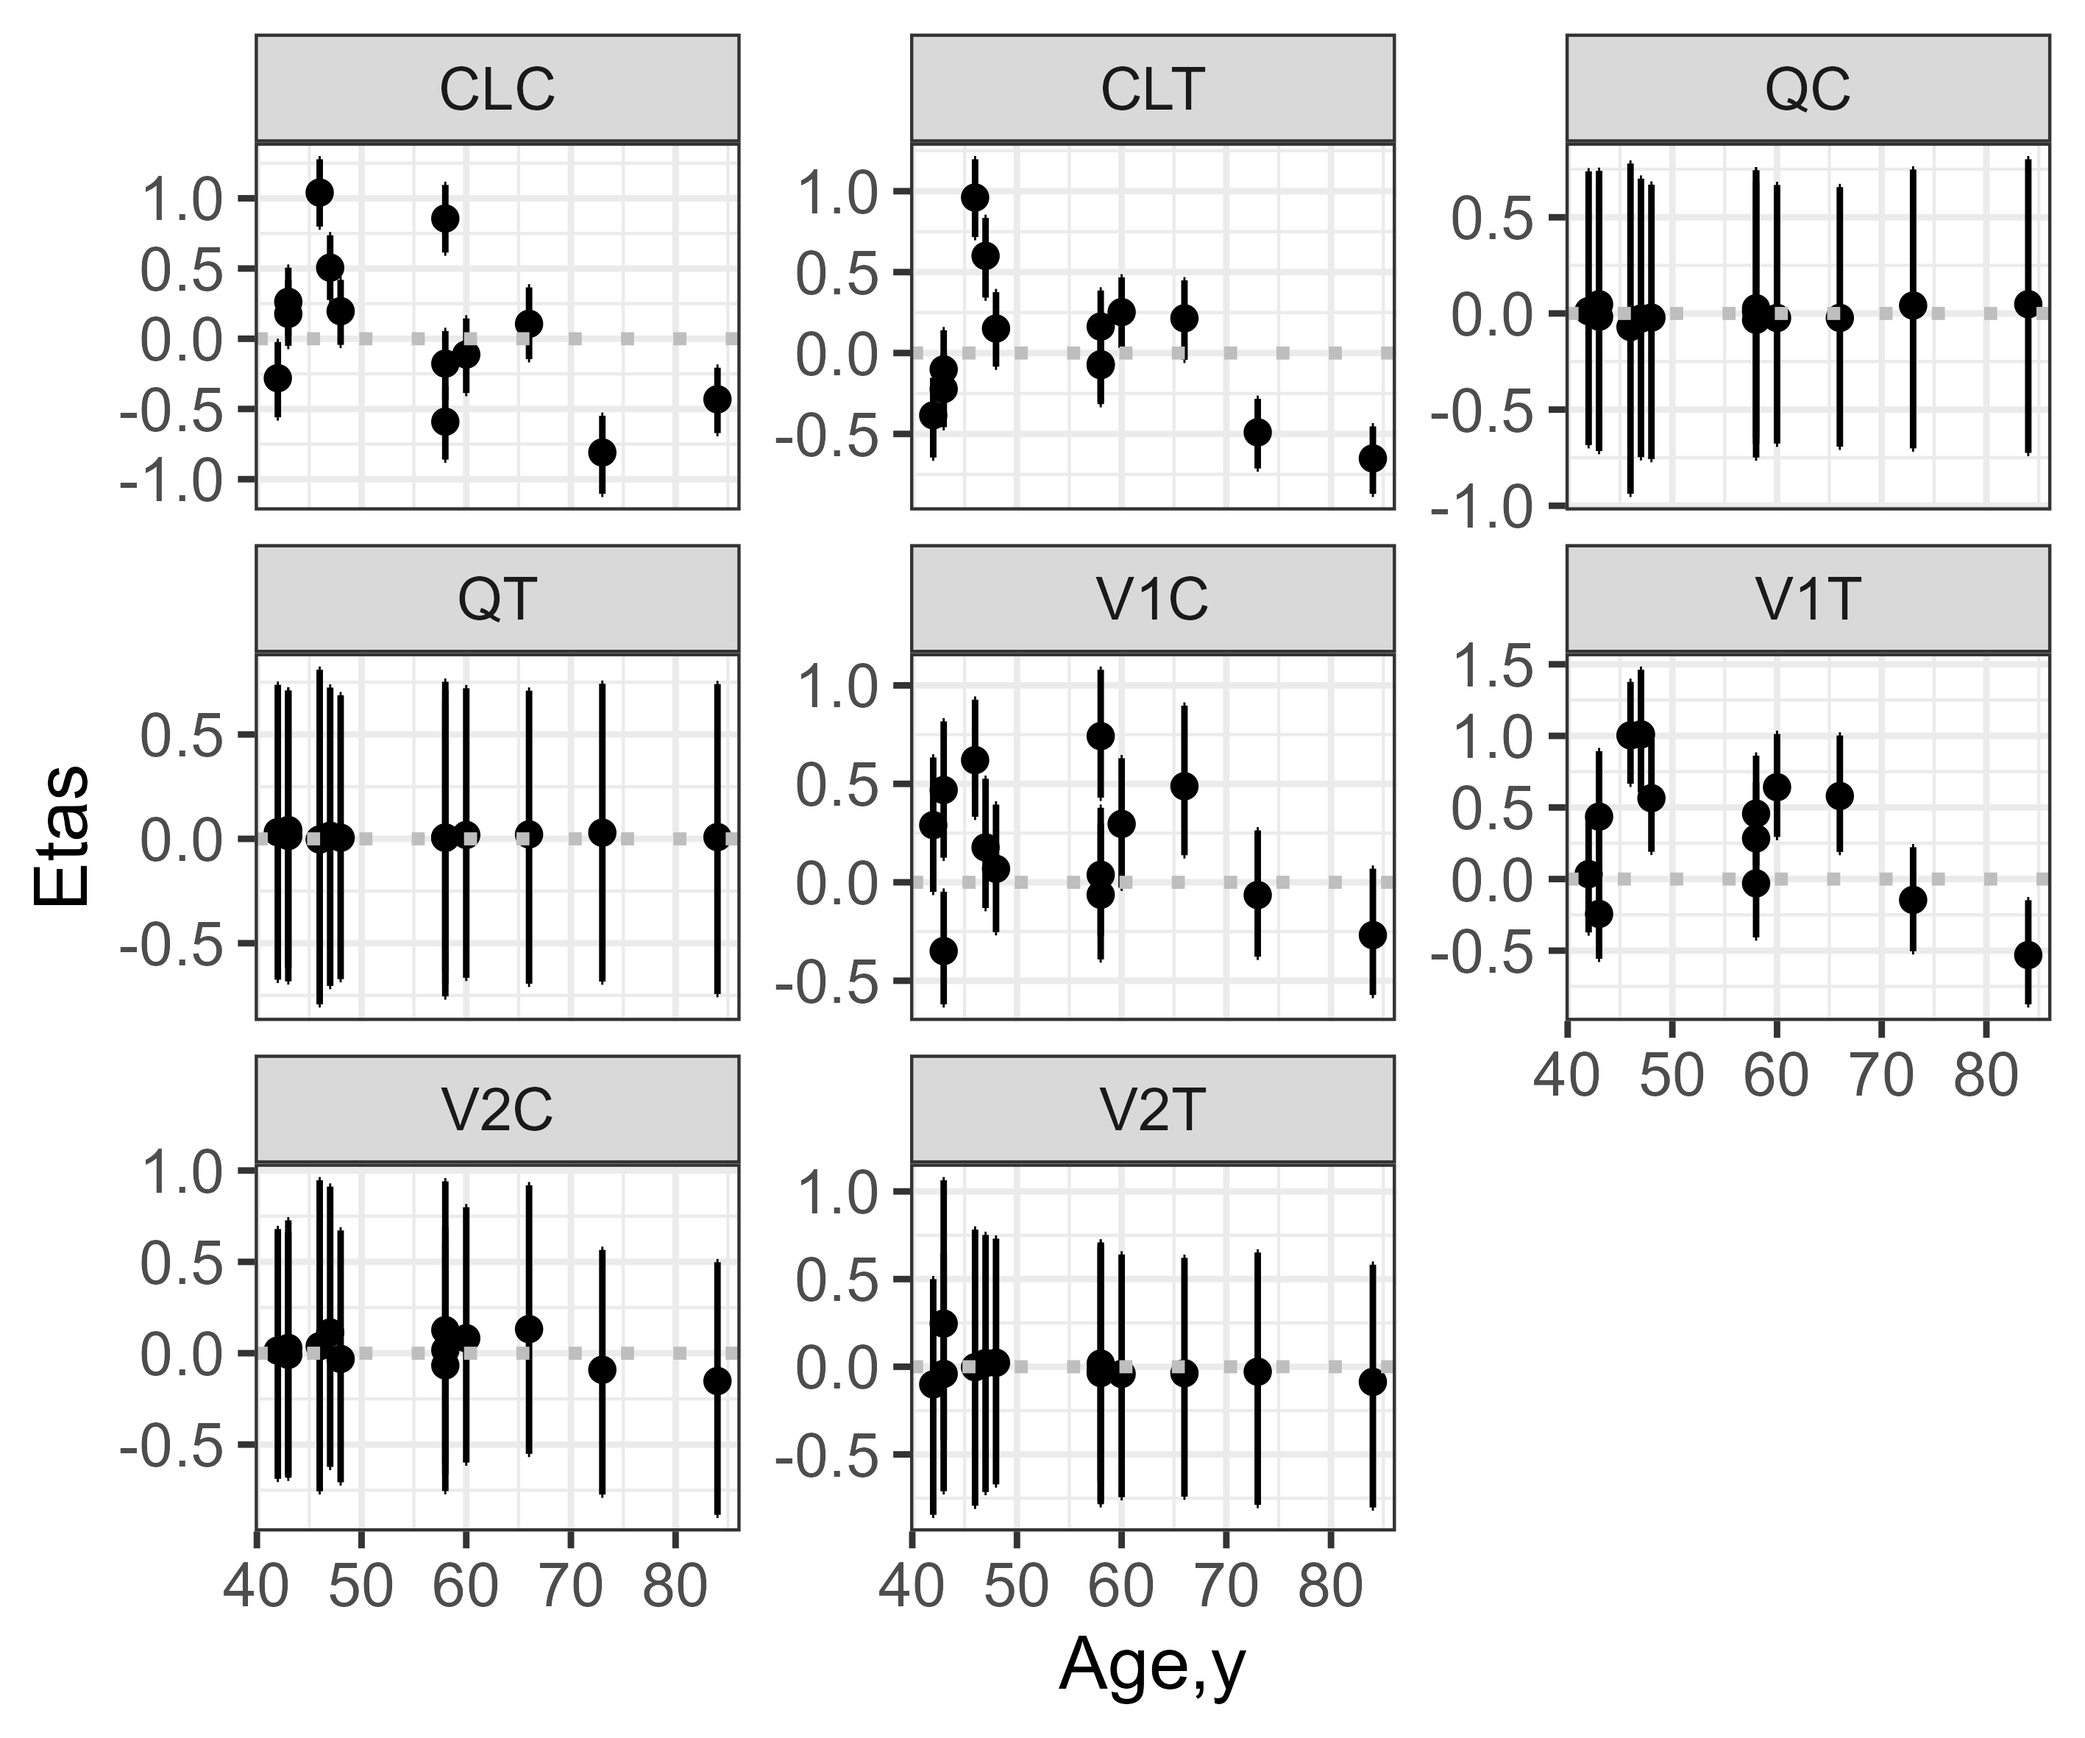
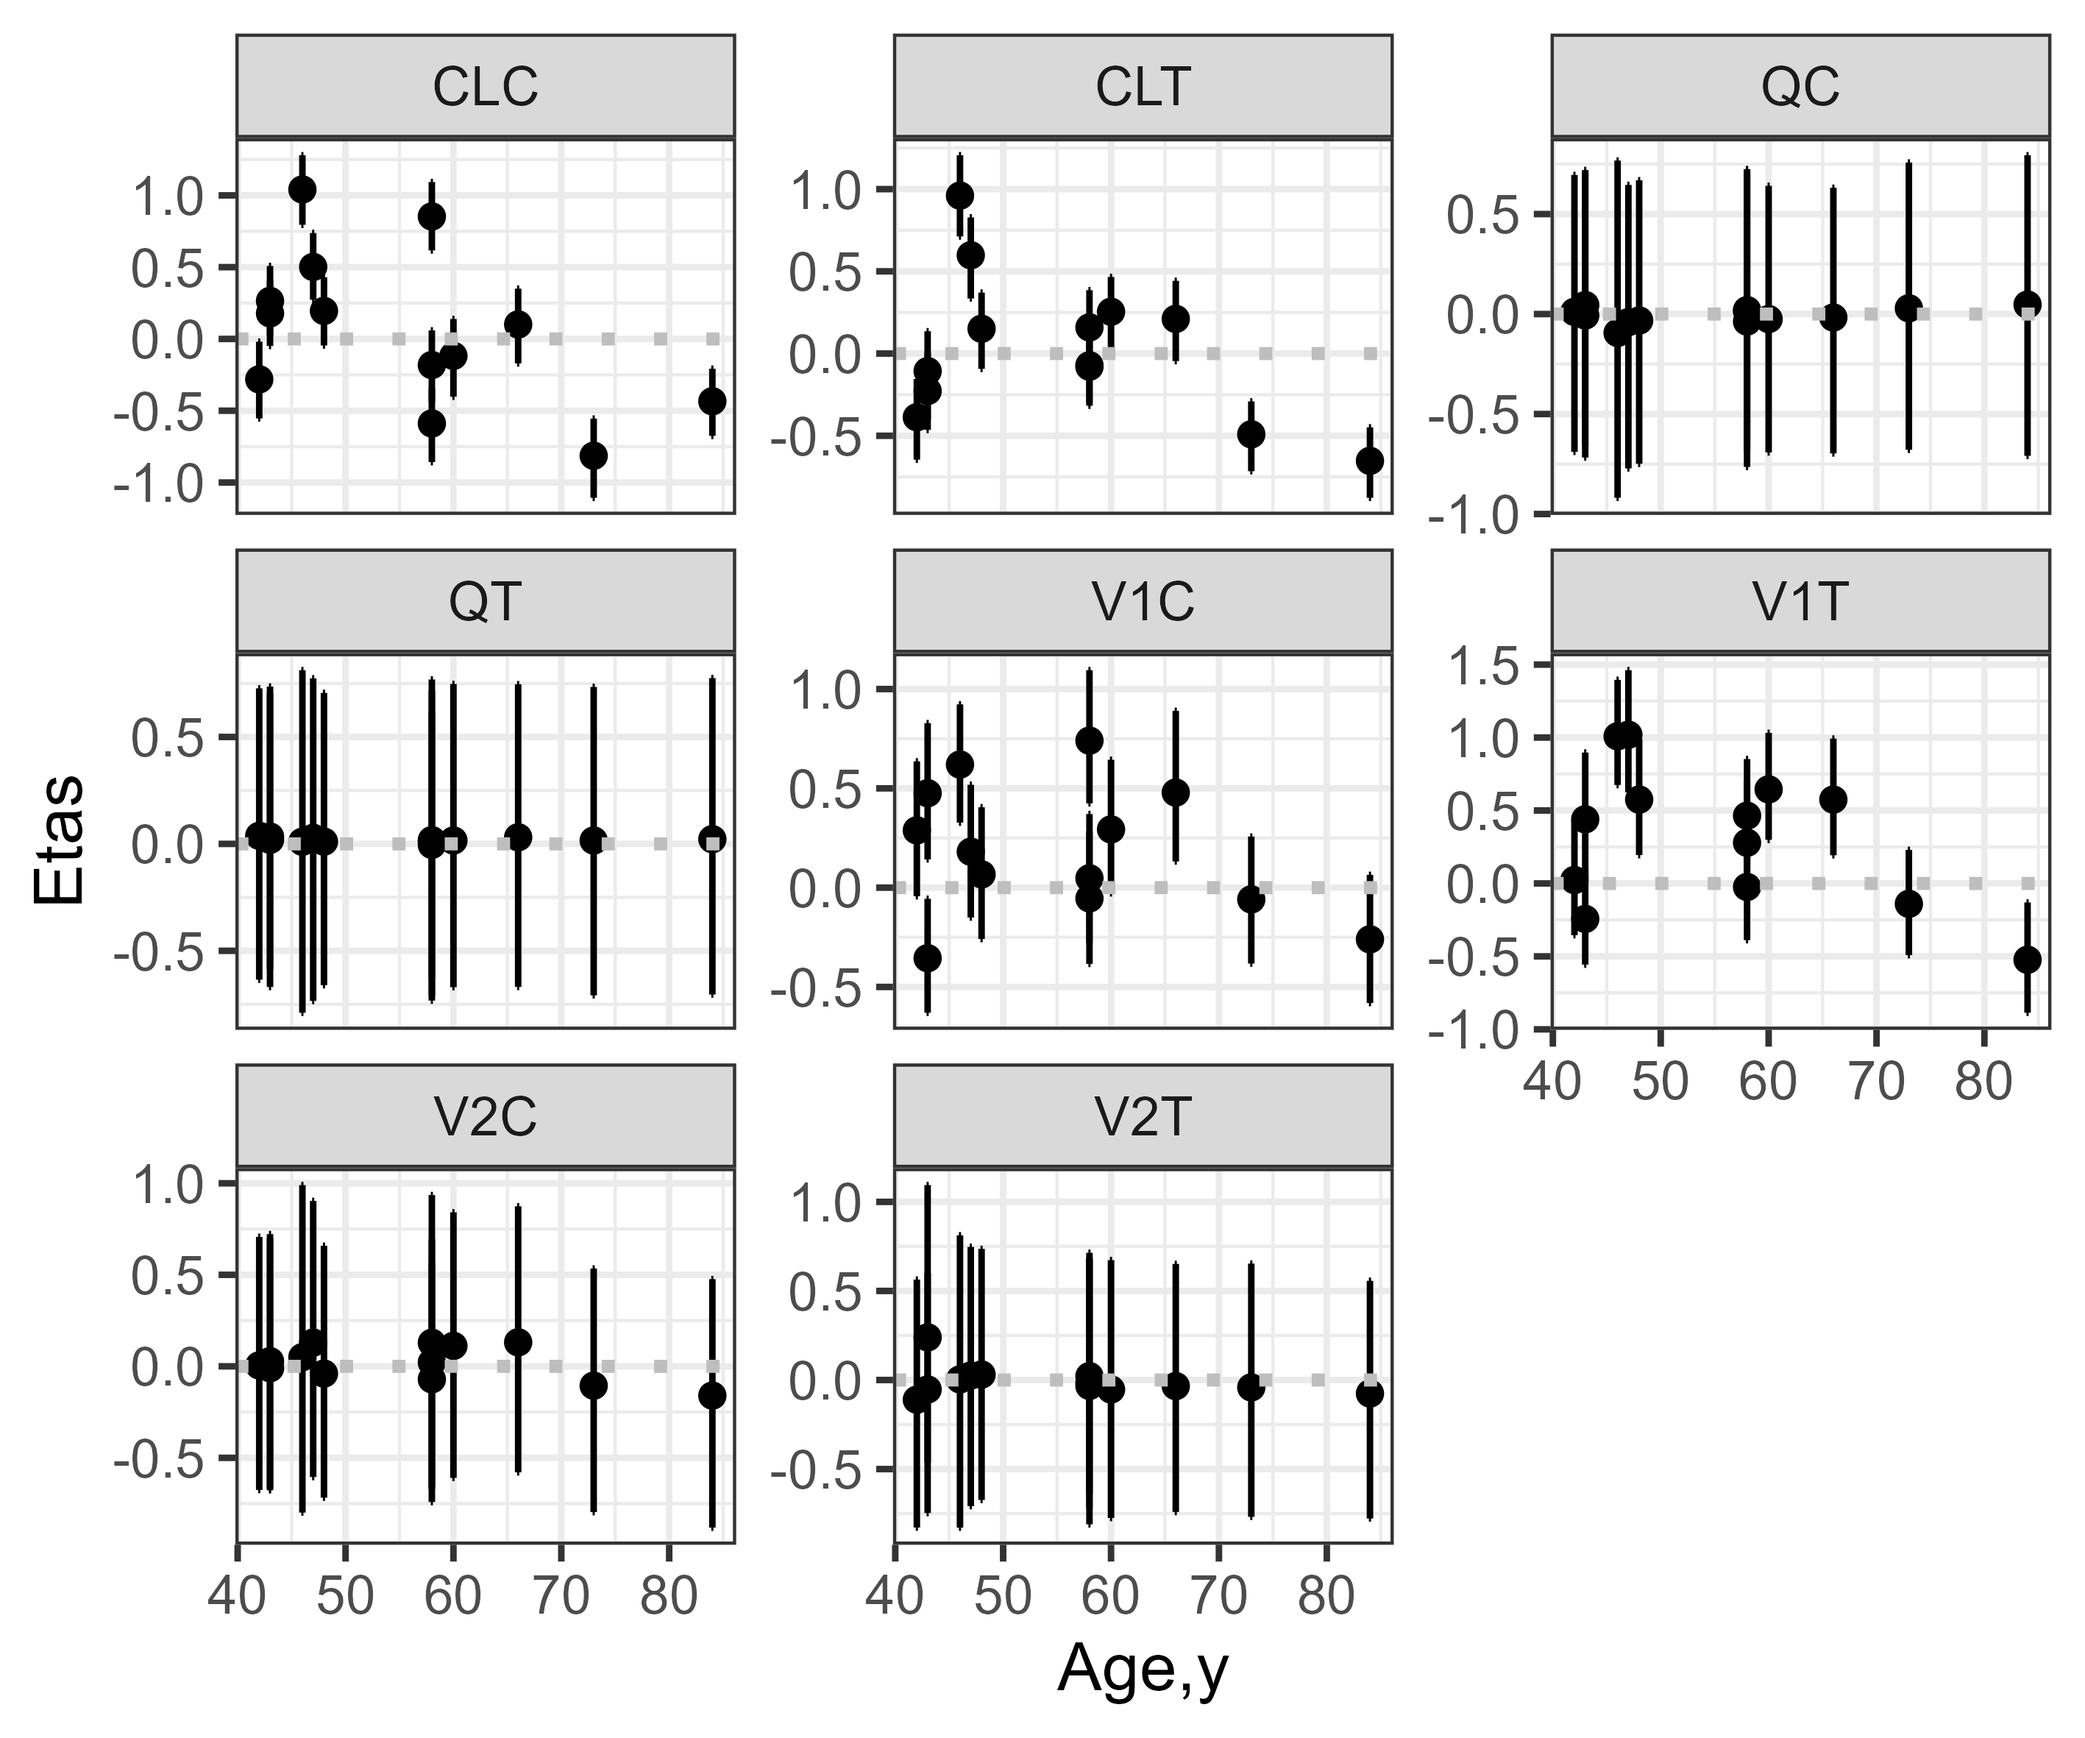
sensitivity analysis

Changed region(s): [[0.0, 0.0, 0.9936, 0.989]]

diff --git a/scripts/Model_Diagnostic_Bayes/ceftaz-analysis-bayes_stan_sensitivity.html b/scripts/Model_Diagnostic_Bayes/ceftaz-analysis-bayes_stan_sensitivity.html
@@ -147,11 +147,19 @@ pre > code.sourceCode > span > a:first-child::before { text-decoration: underlin
 <span id="cb1-2"><a href="#cb1-2" aria-hidden="true" tabindex="-1"></a>renv<span class="sc">::</span><span class="fu">status</span>()</span></code><button title="Copy to Clipboard" class="code-copy-button"><i class="bi"></i></button></pre></div>
 </details>
 <div class="cell-output cell-output-stdout">
-<pre><code>A large number of files (2445 in total) have been discovered.
+<pre><code>A large number of files (2468 in total) have been discovered.
 It may take renv a long time to scan these files for dependencies.
 Consider using .renvignore to ignore irrelevant files.
 See `]8;;x-r-help:renv::dependencies?renv::dependencies]8;;` for more information.
 Set `options(renv.config.dependencies.limit = Inf)` to disable this warning.
+
+
+NOTE: Dependency discovery took 11 seconds during snapshot.
+Consider using .renvignore to ignore files, or switching to explicit snapshots.
+See `]8;;x-r-help:renv::dependencies?renv::dependencies]8;;` for more information.
+
+- C:/Users/pawel/Documents/Rprojects/pkpd-projects/ceftolozane-tazobactam/model/nonmem/bootstrap/bs   : 1003 files
+- C:/Users/pawel/Documents/Rprojects/pkpd-projects/ceftolozane-tazobactam/model/nonmem/bootstrap/bs102: 1003 files
 
 WARNING: One or more problems were discovered while enumerating dependencies.
 
@@ -1483,22 +1491,22 @@ attached base packages:
 [8] base     
 
 other attached packages:
- [1] posterior_1.7.0      conflicted_1.2.0     PKNCA_0.12.1        
- [4] MESS_0.6.0           simpar_0.1.1         rlang_1.1.7         
- [7] furrr_0.3.1          future_1.70.0        tidybayes_3.0.7.9000
-[10] loo_2.9.0            magick_2.9.1         yaml_2.3.12         
-[13] magrittr_2.0.4       cowplot_1.2.0        gridExtra_2.3       
-[16] cmdstanr_0.9.0.9000  nmrec_0.5.1          pmtables_0.10.1.9000
-[19] scales_1.4.0         here_1.0.2           whisker_0.4.1       
-[22] glue_1.8.0           stable_1.1.7         rmutil_1.1.10       
-[25] lubridate_1.9.5      forcats_1.0.1        stringr_1.6.0       
-[28] purrr_1.2.1          readr_2.2.0          tidyr_1.3.2         
-[31] tibble_3.3.1         tidyverse_2.0.0      data.table_1.18.2.1 
-[34] knitr_1.51           naniar_1.1.0         pmplots_0.5.2.9000  
-[37] vpc_1.2.4            mrggsave_0.4.7       mrgsolve_1.8.0.9000 
-[40] patchwork_1.3.2      ggplot2_4.0.2        dplyr_1.2.0         
-[43] bayesplot_1.15.0     bbr.bayes_0.4.0      bbr_1.15.0          
-[46] pracma_2.4.6        
+ [1] posterior_1.7.0      ggrepel_0.9.8        conflicted_1.2.0    
+ [4] PKNCA_0.12.1         MESS_0.6.0           simpar_0.1.1        
+ [7] rlang_1.1.7          furrr_0.3.1          future_1.70.0       
+[10] tidybayes_3.0.7.9000 loo_2.9.0            magick_2.9.1        
+[13] yaml_2.3.12          magrittr_2.0.4       cowplot_1.2.0       
+[16] gridExtra_2.3        cmdstanr_0.9.0.9000  nmrec_0.5.1         
+[19] pmtables_0.10.1.9000 scales_1.4.0         here_1.0.2          
+[22] whisker_0.4.1        glue_1.8.0           stable_1.1.7        
+[25] rmutil_1.1.10        lubridate_1.9.5      forcats_1.0.1       
+[28] stringr_1.6.0        purrr_1.2.1          readr_2.2.0         
+[31] tidyr_1.3.2          tibble_3.3.1         tidyverse_2.0.0     
+[34] data.table_1.18.2.1  knitr_1.51           naniar_1.1.0        
+[37] pmplots_0.5.2.9000   vpc_1.2.4            mrggsave_0.4.7      
+[40] mrgsolve_1.8.0.9000  patchwork_1.3.2      ggplot2_4.0.2       
+[43] dplyr_1.2.0          bayesplot_1.15.0     bbr.bayes_0.4.0     
+[46] bbr_1.15.0           pracma_2.4.6        
 
 loaded via a namespace (and not attached):
  [1] RColorBrewer_1.1-3      geeM_0.10.1             tensorA_0.36.2.1       
